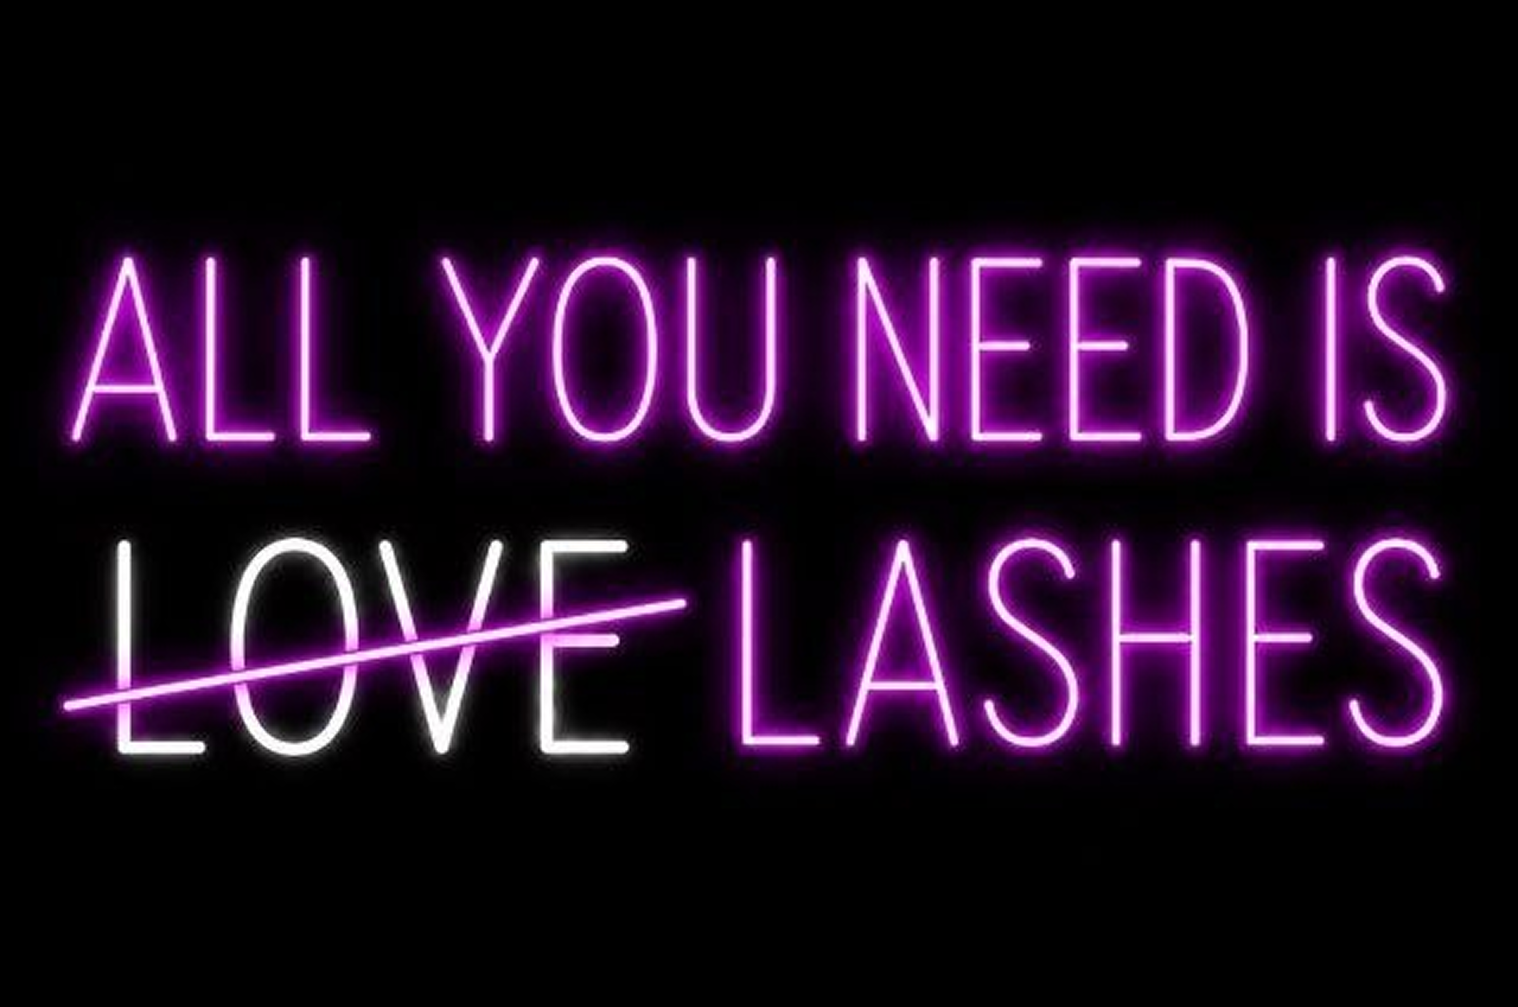
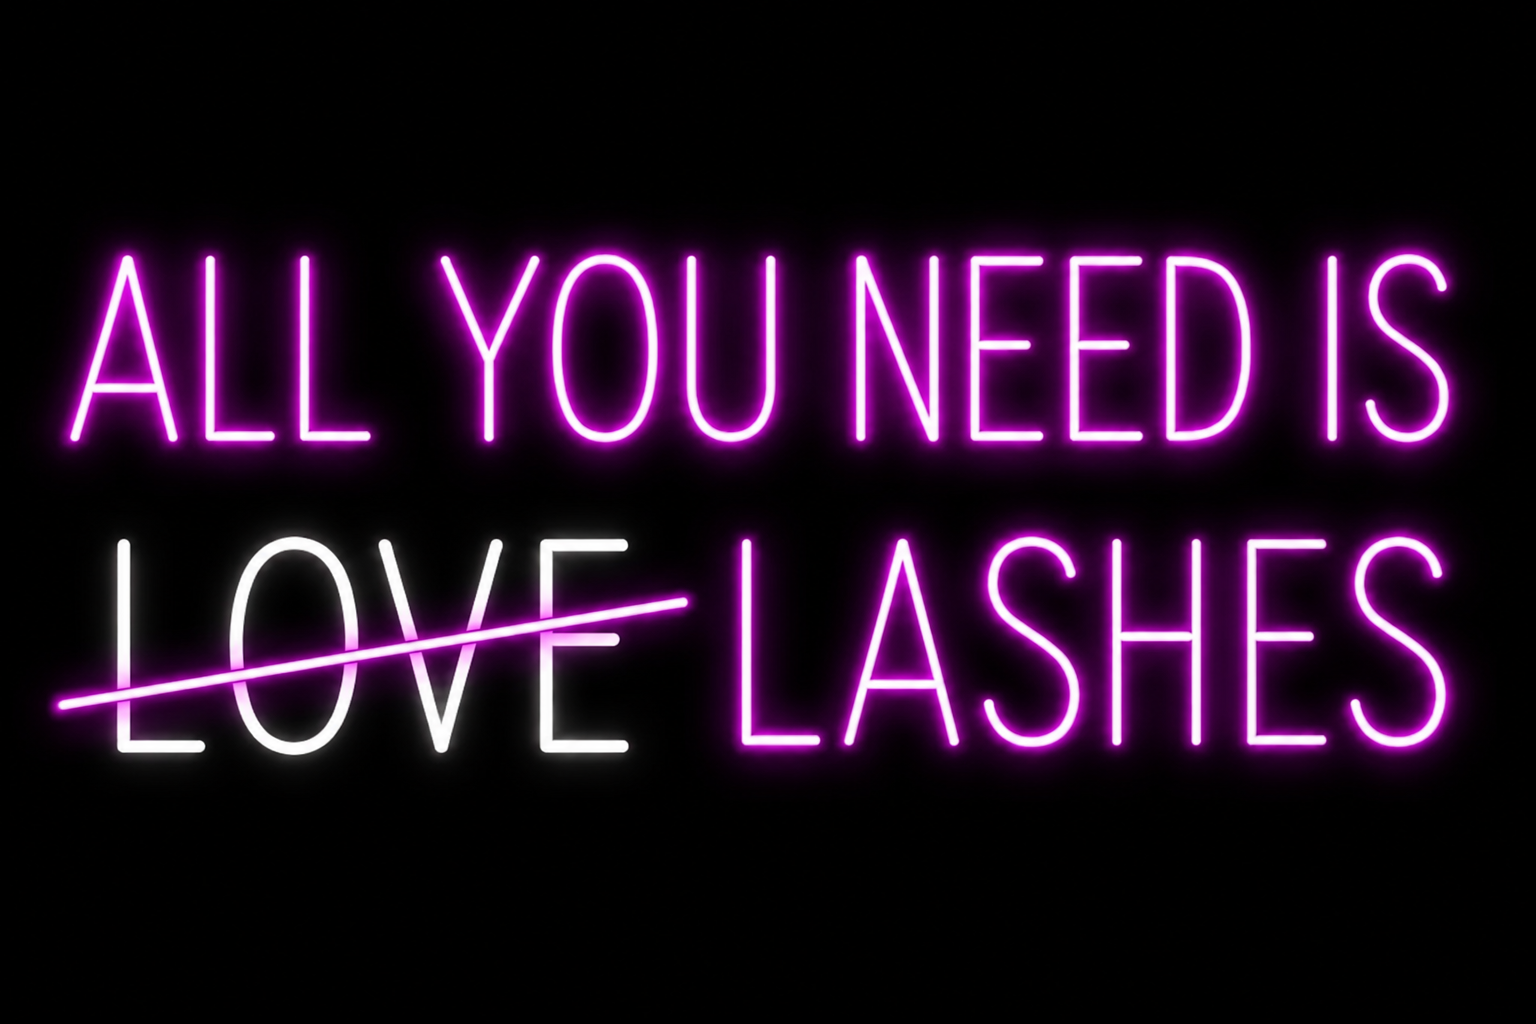
Eleventh commit

Changed region(s): [[0.031, 0.4926, 0.9598, 0.7696], [0.2787, 0.2155, 0.9598, 0.4618], [0.031, 0.2155, 0.2477, 0.4618]]

diff --git a/js/header.js b/js/header.js
@@ -43,7 +43,7 @@
 
                     window.setTimeout(function () {
                         header.classList.add('is-visible');
-                    }, 200);
+                    }, 250);
                 });
             });
         });
